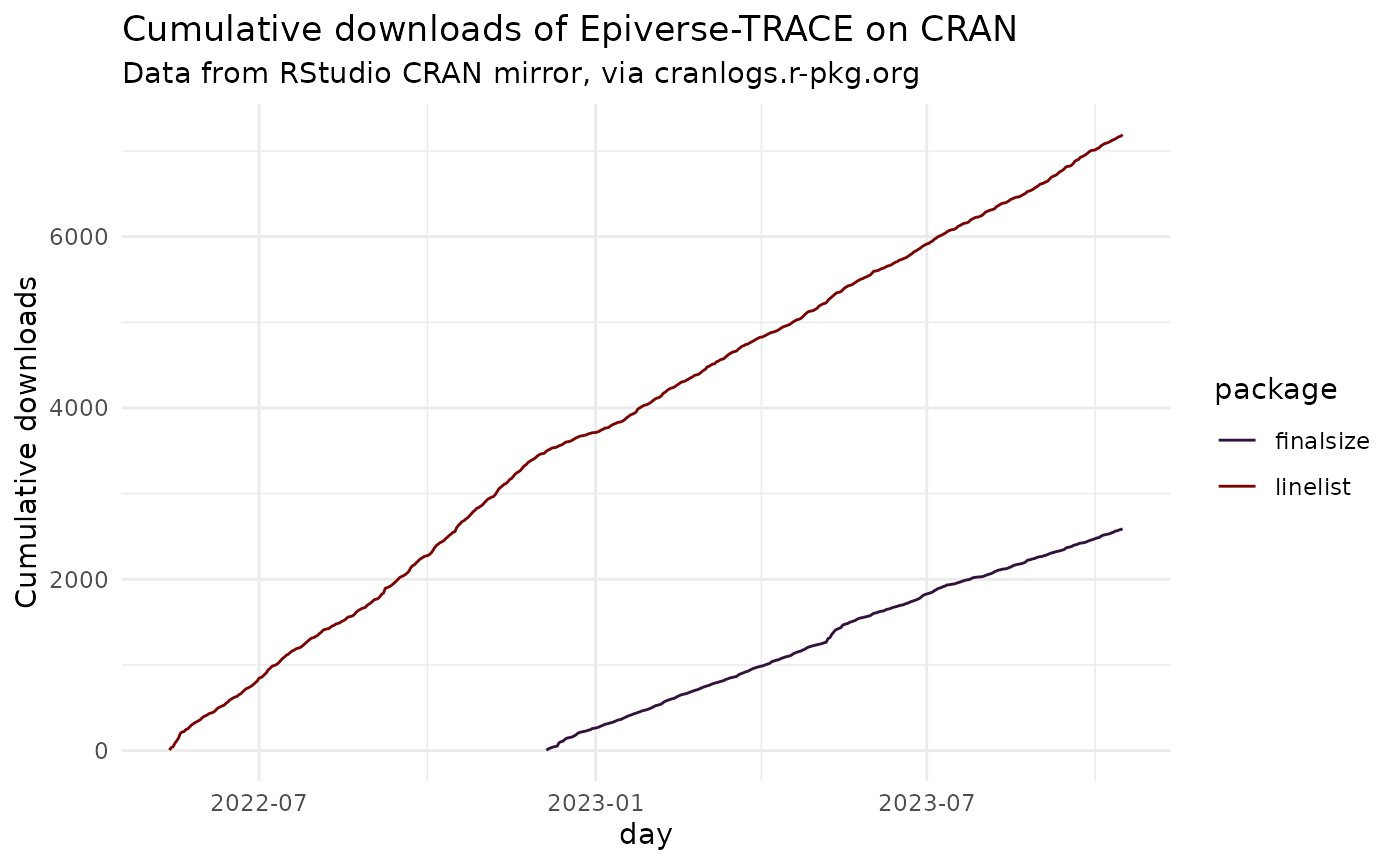
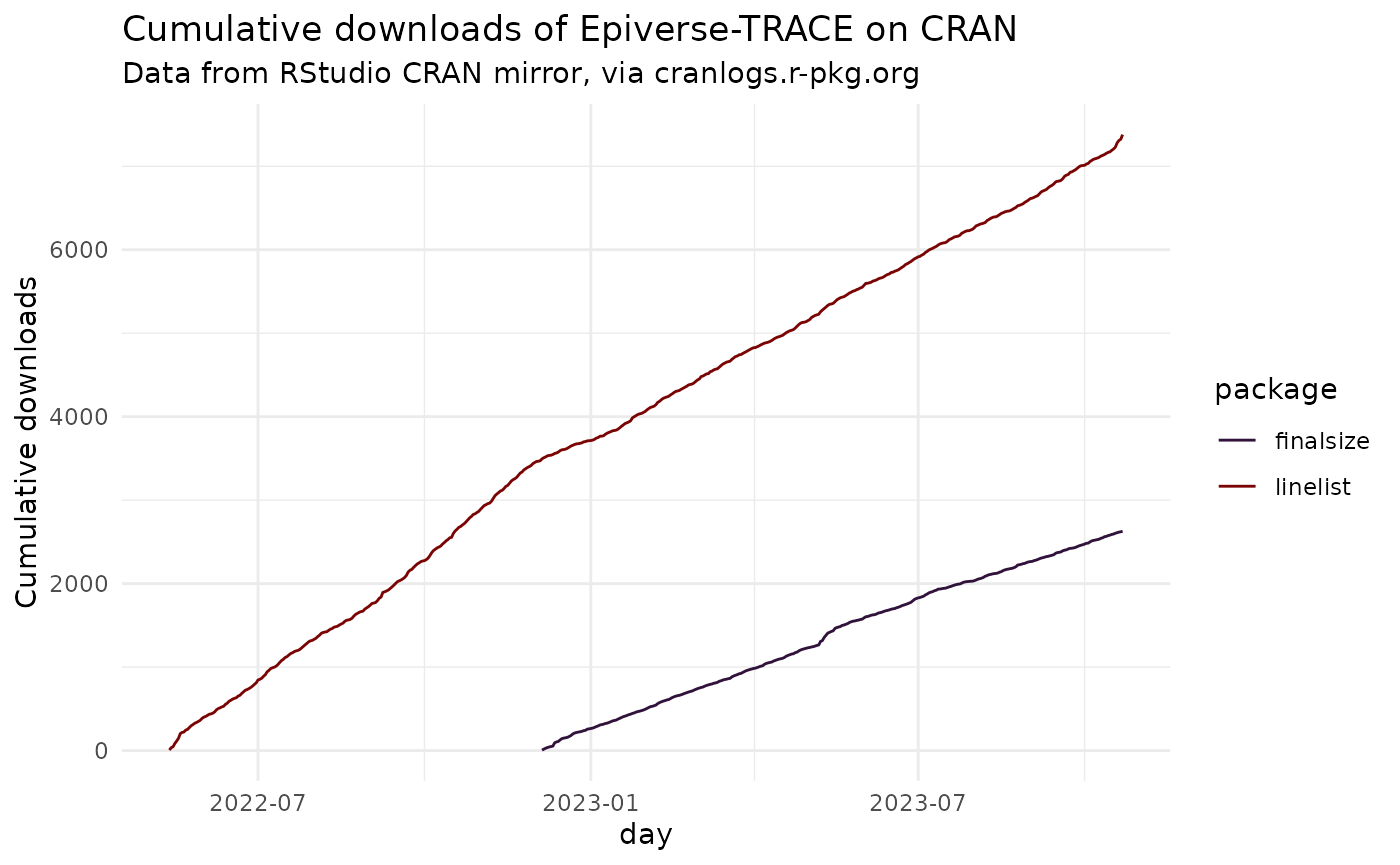
Deploying to gh-pages from @ epiverse-trace/etstats@156da2ebe13cb9bbd1cce25b37d05cef2c2c2383 🚀

diff --git a/articles/cran-statistics.html b/articles/cran-statistics.html
@@ -63,7 +63,7 @@
   <main id="main" class="col-md-9"><div class="page-header">
       <img src="" class="logo" alt=""><h1>CRAN statistics</h1>
             
-            <h4 data-toc-skip class="date">2023-10-18</h4>
+            <h4 data-toc-skip class="date">2023-10-24</h4>
       
       
       <div class="d-none name"><code>cran-statistics.Rmd</code></div>
@@ -76,7 +76,7 @@
 <li>linelist</li>
 <li>finalsize</li>
 </ul>
-<p>In total, Epiverse-TRACE packages on CRAN has been downloaded 9780
+<p>In total, Epiverse-TRACE packages on CRAN has been downloaded 10007
 times.</p>
 <p>Below is a visualization of the breakdown of this grand total by
 package over time.</p>
